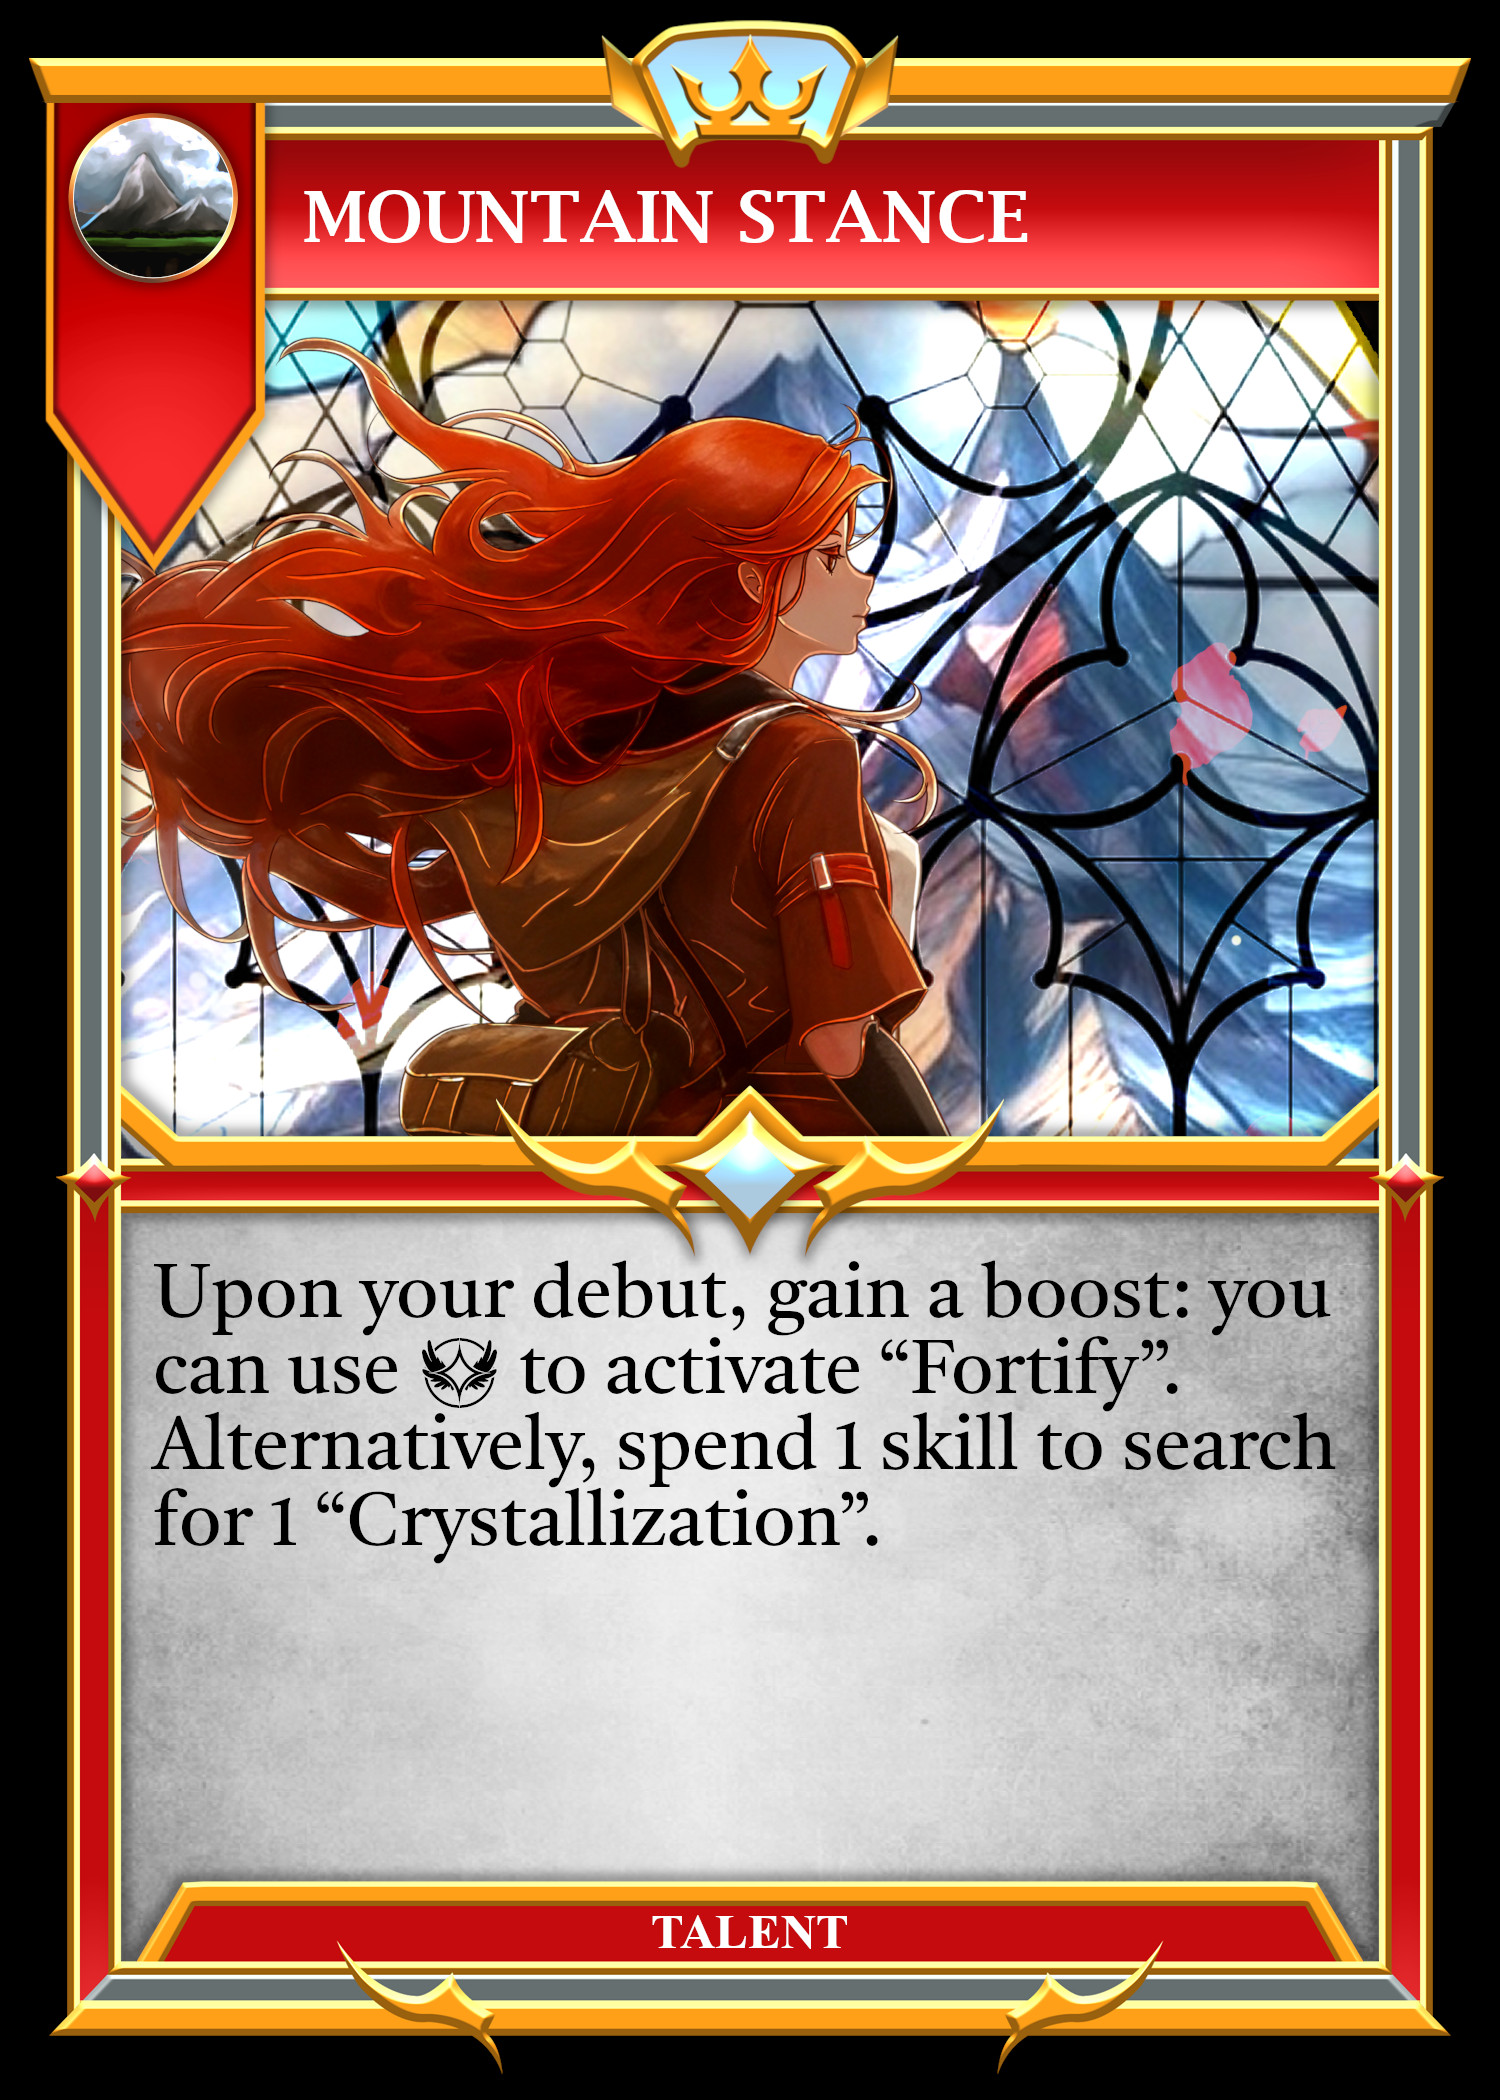
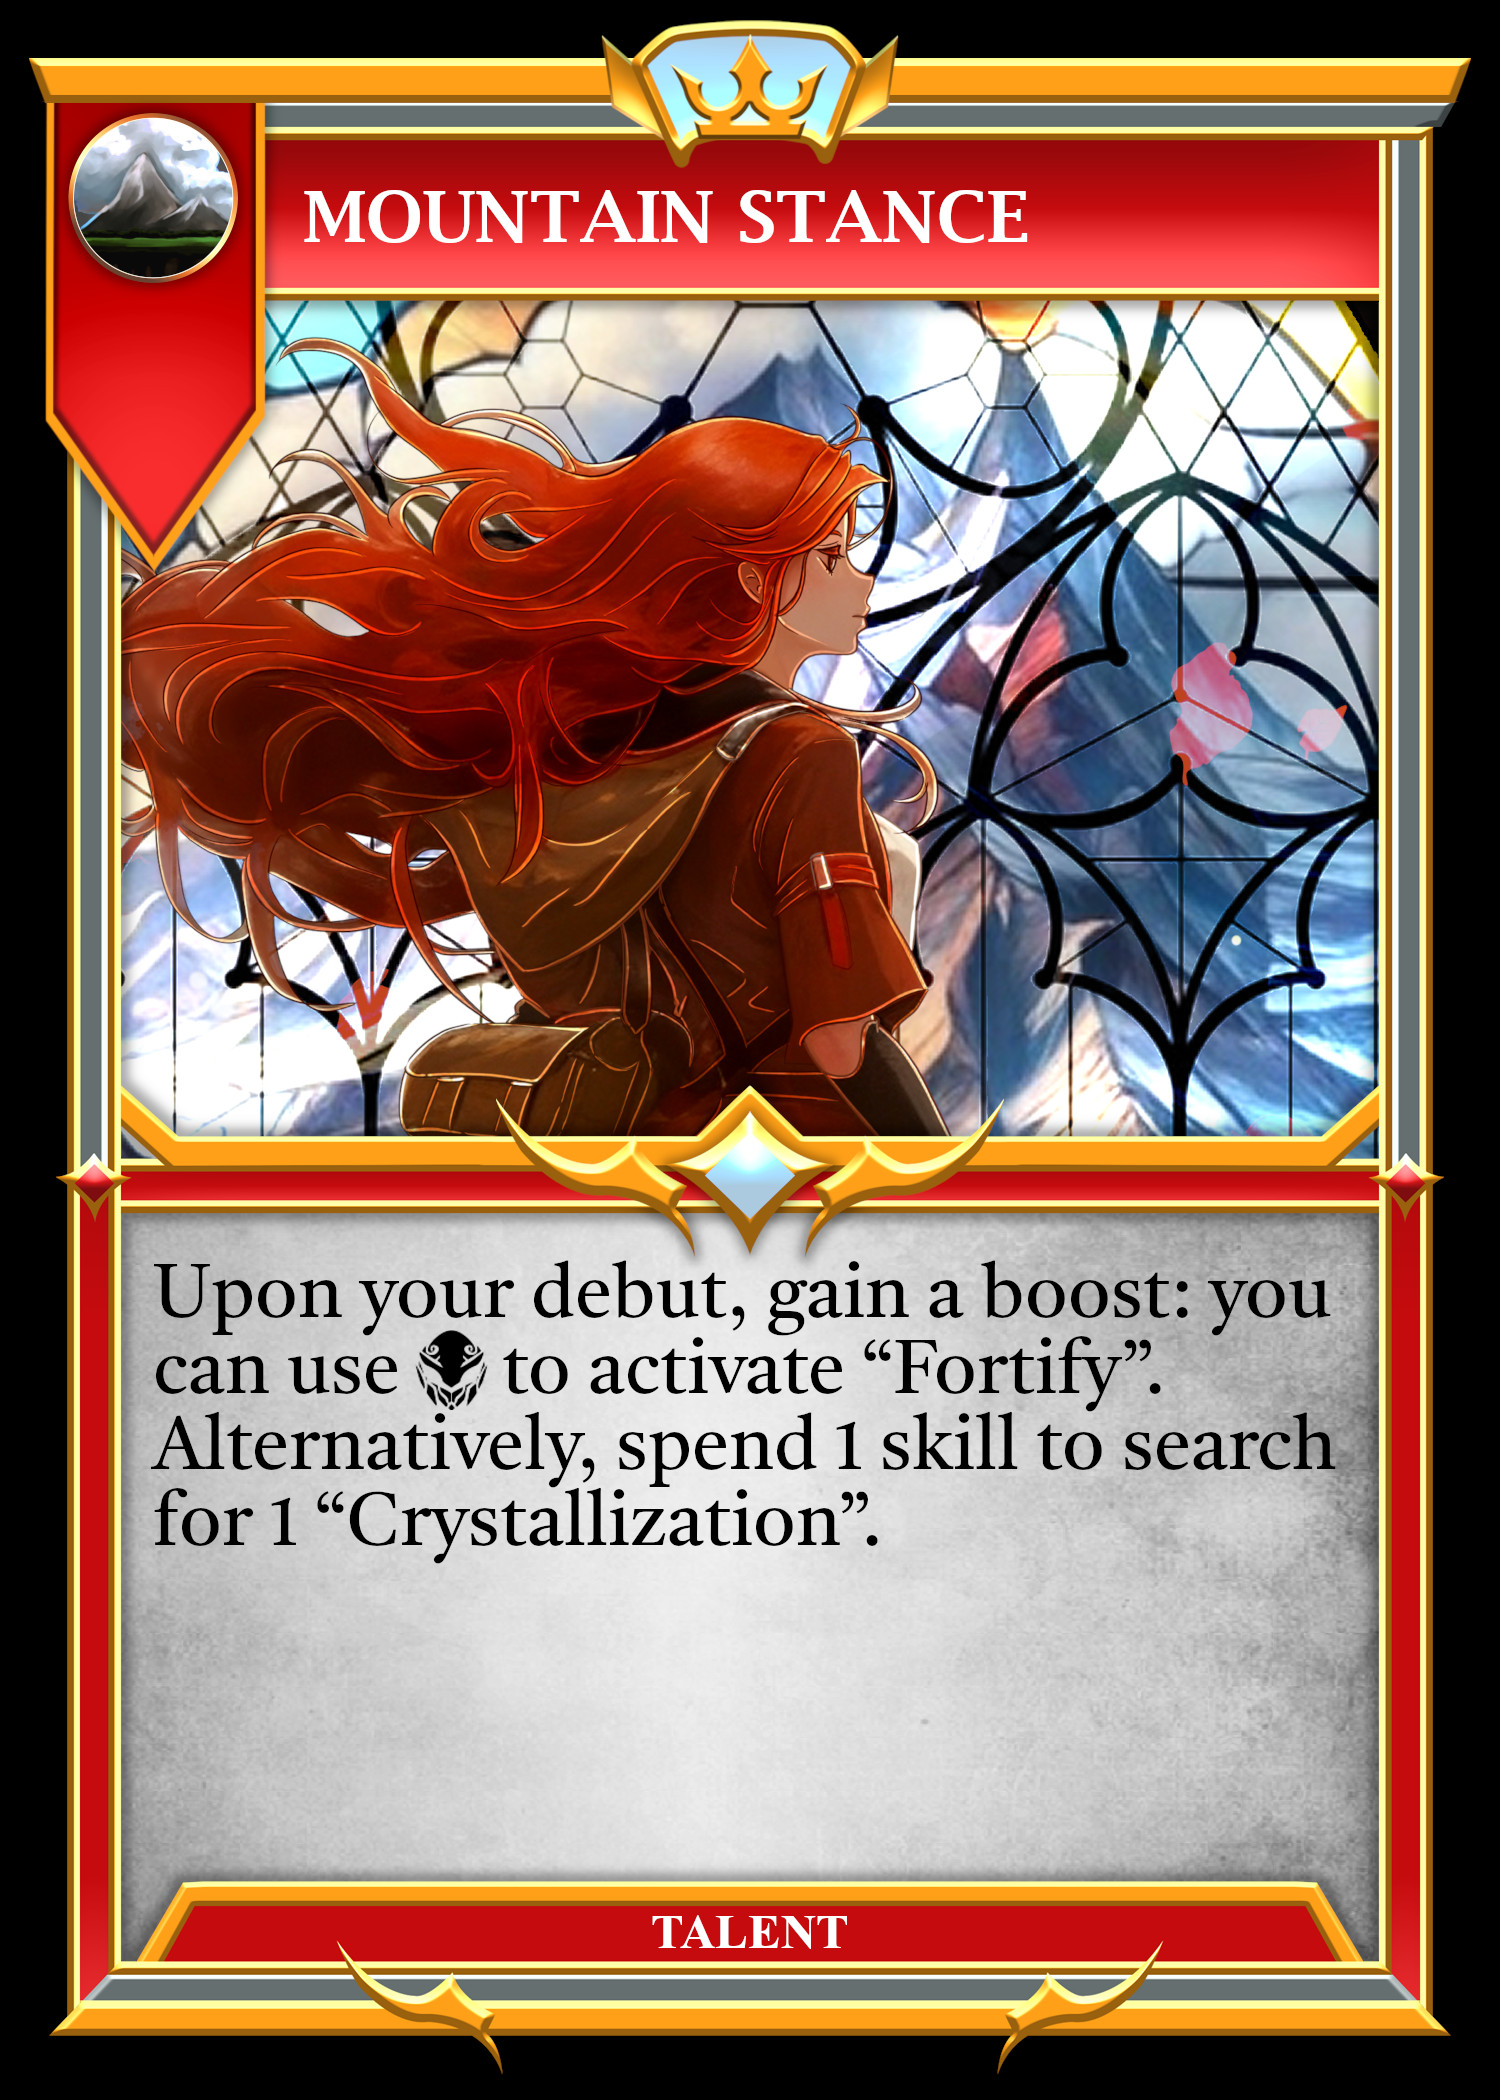
fixed bug with flourish and destine. buffed mountain stance: boost lets Scion use advance instead of invoke

Changed region(s): [[0.276, 0.619, 0.7667, 0.681]]

diff --git a/src/components/modals/SelectUnitAbility.jsx b/src/components/modals/SelectUnitAbility.jsx
@@ -181,7 +181,7 @@ const SelectUnitAbility = (props) => {
 
     case "Land Scion":
       if (unit.boosts.mountainStance) {
-        message = `Mountain Stance boost: You can use an Invoke tactic to activate Fortify.`;
+        message = `Mountain Stance boost: You can use an Advance tactic to activate Fortify.`;
       }
 
       abilityDetails = [
@@ -193,7 +193,7 @@ const SelectUnitAbility = (props) => {
               {unit.boosts.mountainStance && (
                 <span>
                   {"\u00A0\u00A0or\u00A0\u00A0"}
-                  <img src={InvokeSmall} style={{ height: 35 }} />
+                  <img src={AdvanceSmall} style={{ height: 35 }} />
                 </span>
               )}
             </div>
@@ -473,11 +473,14 @@ const SelectUnitAbility = (props) => {
       case "Plant Scion":
         switch (i) {
           case 0:
-            return !unit.temporary.usedFlourish && unit.blossom
-              ? unit.blossom + newGameState[unit.player].skillHand.length >= 2
-              : newGameState[unit.player].skillHand.length >= 2;
+            return (
+              !unit.temporary.usedFlourish &&
+              (unit.blossom
+                ? unit.blossom + newGameState[unit.player].skillHand.length >= 2
+                : newGameState[unit.player].skillHand.length >= 2)
+            );
           case 1:
-            return unit.blossom >= 1 && !unit.temporary.usedFlourish;
+            return unit.blossom >= 1;
         }
     }
 
@@ -549,7 +552,7 @@ const SelectUnitAbility = (props) => {
         if (selectedChoice === 0) {
           if (unit.boosts.glacialTorrent > 0) {
             unit.boosts.glacialTorrent -= 1;
-            newGameState[unit.player].units[unit.unitIndex] = unit;
+            //newGameState[unit.player].units[unit.unitIndex] = unit;
 
             newGameState.activatingSkill.push("Hydrotherapy");
             newGameState.activatingUnit.push(unit);
@@ -588,7 +591,7 @@ const SelectUnitAbility = (props) => {
         } else if (selectedChoice === 1) {
           if (unit.boosts.glacialTorrent > 0) {
             unit.boosts.glacialTorrent -= 1;
-            newGameState[unit.player].units[unit.unitIndex] = unit;
+            //newGameState[unit.player].units[unit.unitIndex] = unit;
 
             newGameState.activatingSkill.push("ColdEmbrace");
             newGameState.activatingUnit.push(unit);
@@ -665,8 +668,8 @@ const SelectUnitAbility = (props) => {
           let fortifyRestriction = ["Assault"];
 
           if (unit.boosts.mountainStance) {
-            fortifyMessage = "Use an Assault or Invoke tactic.";
-            fortifyRestriction = ["Assault", "Invoke"];
+            fortifyMessage = "Use an Assault or Advance tactic.";
+            fortifyRestriction = ["Assault", "Advance"];
           }
 
           newGameState.currentResolution.push({
@@ -717,7 +720,7 @@ const SelectUnitAbility = (props) => {
         } else if (selectedChoice === 1) {
           if (unit.boosts.valiantSpark) {
             delete unit.boosts.valiantSpark;
-            newGameState[unit.player].units[unit.unitIndex] = unit;
+            //newGameState[unit.player].units[unit.unitIndex] = unit;
 
             newGameState.activatingSkill.push("ArcFlash");
             newGameState.activatingUnit.push(unit);

diff --git a/src/components/modals/SelectCustomChoice.jsx b/src/components/modals/SelectCustomChoice.jsx
@@ -157,7 +157,7 @@ const SelectCustomChoice = (props) => {
       canFirstChoice = true;
       canSecondChoice = newGameState[unit.player].skillHand.length > 0;
       ChoiceFirstMessage =
-        "Gain a boost: you can use an Invoke tactic to activate “Fortify”.";
+        "Gain a boost: you can use an Advance tactic to activate “Fortify”.";
       ChoiceSecondMessage = "Spend 1 skill to search for 1 “Crystallization”.";
       break;
 
@@ -327,7 +327,7 @@ const SelectCustomChoice = (props) => {
           unit.fever
             ? (unit.fever = Math.min(2, unit.fever + 2))
             : (unit.fever = 2);
-          newGameState[unit.player].units[unit.unitIndex] = unit;
+          //newGameState[unit.player].units[unit.unitIndex] = unit;
         } else {
           newGameState.currentResolution.push({
             resolution: "Recover Skill",
@@ -530,7 +530,7 @@ const SelectCustomChoice = (props) => {
       case "Geomancy":
         if (selectedChoice === 1) {
           unit.hp = Math.min(unit.hp + 1, 3);
-          newGameState[unit.player].units[unit.unitIndex] = unit;
+          //newGameState[unit.player].units[unit.unitIndex] = unit;
         } else {
           newGameState.currentResolution.push({
             resolution: "Recover Skill",
@@ -675,10 +675,10 @@ const SelectCustomChoice = (props) => {
           unit.sharpness
             ? (unit.sharpness = Math.min(2, unit.sharpness + 1))
             : (unit.sharpness = 1);
-          newGameState[unit.player].units[unit.unitIndex] = unit;
+          //newGameState[unit.player].units[unit.unitIndex] = unit;
         } else {
           unit.hp = Math.max(2, unit.hp);
-          newGameState[unit.player].units[unit.unitIndex] = unit;
+          //newGameState[unit.player].units[unit.unitIndex] = unit;
           newGameState.currentResolution.push({
             resolution: "Discard Skill",
             unit: unit,
@@ -738,7 +738,7 @@ const SelectCustomChoice = (props) => {
           newGameState = drawSkill(newGameState);
         } else {
           unit.virtue = 1;
-          newGameState[unit.player].units[unit.unitIndex] = unit;
+          //newGameState[unit.player].units[unit.unitIndex] = unit;
         }
         break;
 
@@ -748,7 +748,7 @@ const SelectCustomChoice = (props) => {
         } else {
           unit.enhancements.ward = 0;
         }
-        newGameState[unit.player].units[unit.unitIndex] = unit;
+        //newGameState[unit.player].units[unit.unitIndex] = unit;
 
         enterSelectUnitMode(
           getZonesWithEnemies(unit, 1),

diff --git a/src/hooks/useRecurringEffects.jsx b/src/hooks/useRecurringEffects.jsx
@@ -3130,6 +3130,46 @@ export const useRecurringEffects = () => {
     return !(newIndex >= 8 || getVacantFrontier().length === 0);
   };
 
+  const canDestine = () => {
+    let newGameState = JSON.parse(JSON.stringify(localGameState));
+    let pawn = null;
+    const units = newGameState[self].units;
+
+    //1. get any (the first) pawn that can promote
+    for (let unit of units) {
+      if (unit && unit.unitClass === "Pawn" && !isMuted(unit)) {
+        pawn = unit;
+        break;
+      }
+    }
+
+    //2. if no pawns were found in step 1, return false
+    if (pawn === null) {
+      return false;
+    }
+
+    //3. try to see if pawn can promote to aspect of any card in hand
+
+    const skillHand = newGameState[self].skillHand;
+
+    for (let skill of skillHand) {
+      //3.1 get aspect of skill
+      const skillCode = skill.substring(0, 2);
+
+      //3.2 if aspect is non-sovereign, check if can ascend
+      if (!isNaN(parseInt(skillCode))) {
+        if (
+          canAscend(newGameState, self, avelhemToScion(parseInt(skillCode)))
+        ) {
+          return true;
+        }
+      }
+    }
+
+    //4. return false if failed to return true
+    return false;
+  };
+
   const canMove = (unit) => {
     if (getVacantAdjacentZones(unit).length > 0) {
       return true;
@@ -5475,6 +5515,7 @@ export const useRecurringEffects = () => {
     canBlast,
     canBallisticArmor,
     canDeploy,
+    canDestine,
     canSowAndReapBlast,
     canSowAndReapStrike,
     canMove,

diff --git a/src/components/modals/DefiancePhaseSelection.jsx b/src/components/modals/DefiancePhaseSelection.jsx
@@ -20,13 +20,8 @@ const DefiancePhaseSelection = (props) => {
 
   const { sovereignSkillList } = useCardDatabase();
 
-  const {
-    assignTactics,
-    canActivateSovereignSkill,
-    drawSkill,
-    endDefiancePhase,
-    rollTactic,
-  } = useRecurringEffects();
+  const { assignTactics, canDestine, drawSkill, endDefiancePhase, rollTactic } =
+    useRecurringEffects();
 
   let newGameState = JSON.parse(JSON.stringify(localGameState));
 
@@ -199,9 +194,9 @@ const DefiancePhaseSelection = (props) => {
     //Curate
     newGameState[self].fateDefiances >= defianceCosts[2] &&
       newGameState.tactics.length > 1,
-    //Destine (Power at the Final Hour has the same activation requirement)
-    newGameState[self].fateDefiances >= defianceCosts[3] &&
-      canActivateSovereignSkill("SC-01"),
+    //Destine
+    newGameState[self].fateDefiances >= defianceCosts[3] && canDestine(),
+
     //Ex Machina
     newGameState[self].fateDefiances >= defianceCosts[4],
     //Finesse

diff --git a/src/components/modals/UnitInfo.jsx b/src/components/modals/UnitInfo.jsx
@@ -324,7 +324,7 @@ const UnitInfo = (props) => {
             <p className="unitInfo-text-desc unitInfo-text-last">
               ⬩Upon your debut, gain a boost: you can use{" "}
               <span className="unitInfo-tactic-group2">
-                <img src={InvokeSmall} className="unitInfo-tactic-icon2" />
+                <img src={AdvanceSmall} className="unitInfo-tactic-icon2" />
               </span>{" "}
               to activate “Fortify”. Alternatively, spend 1 skill to search for
               1 “Crystallization”.
@@ -756,7 +756,7 @@ const UnitInfo = (props) => {
                         ⬩Can activate “Fortify” by using{" "}
                         <span className="unitInfo-tactic-group2">
                           <img
-                            src={InvokeSmall}
+                            src={AdvanceSmall}
                             className="unitInfo-tactic-icon2"
                           />
                         </span>

diff --git a/src/components/modals/SelectTacticalAction.jsx b/src/components/modals/SelectTacticalAction.jsx
@@ -243,7 +243,7 @@ const SelectTacticalAction = (props) => {
               ? (unit.temporary.activation += 1)
               : (unit.temporary.activation = 1);
 
-            newGameState[unit.player].units[unit.unitIndex] = unit;
+            //newGameState[unit.player].units[unit.unitIndex] = unit;
             newGameState.activatingUnit.push(unit);
 
             newGameState.currentResolution.push({
@@ -338,7 +338,7 @@ const SelectTacticalAction = (props) => {
             ? (unit.temporary.activation += 1)
             : (unit.temporary.activation = 1);
 
-          newGameState[unit.player].units[unit.unitIndex] = unit;
+          //newGameState[unit.player].units[unit.unitIndex] = unit;
 
           //newGameState.activatingSkill.push("Advance") <-- to do?
           newGameState.activatingUnit.push(unit);

diff --git a/src/components/modals/YouMaySpend1Skill.jsx b/src/components/modals/YouMaySpend1Skill.jsx
@@ -277,7 +277,7 @@ const YouMaySpend1Skill = (props) => {
           ? (unit.temporary.activation += 1)
           : (unit.temporary.activation = 1);
 
-        newGameState[unit.player].units[unit.unitIndex] = unit;
+        //newGameState[unit.player].units[unit.unitIndex] = unit;
         newGameState.activatingUnit.push(unit);
 
         newGameState.currentResolution.push({

diff --git a/src/components/modals/SelectTacticViaEffect.jsx b/src/components/modals/SelectTacticViaEffect.jsx
@@ -207,7 +207,7 @@ const SelectTacticViaEffect = (props) => {
           break;
 
         case "Fortify":
-          if (newGameState.tactics[i].face === "Invoke") {
+          if (newGameState.tactics[i].face === "Advance") {
             delete unit.boosts.mountainStance;
             newGameState[props.unit.player].units[props.unit.unitIndex] = unit;
           }

diff --git a/src/components/modals/Modal.css b/src/components/modals/Modal.css
@@ -379,10 +379,14 @@
 .abilityQualifier {
     color: #e8e8e8;
     font-family: "Times New Roman", Times, serif;
-    font-size: 20px;
+    font-size: 25px;
     display: flex;
     justify-content: center;
     align-items: center;
+    padding-top: 3px;
+
+    /* background-color: aqua; */
+
 }
 
 .abilityText {
